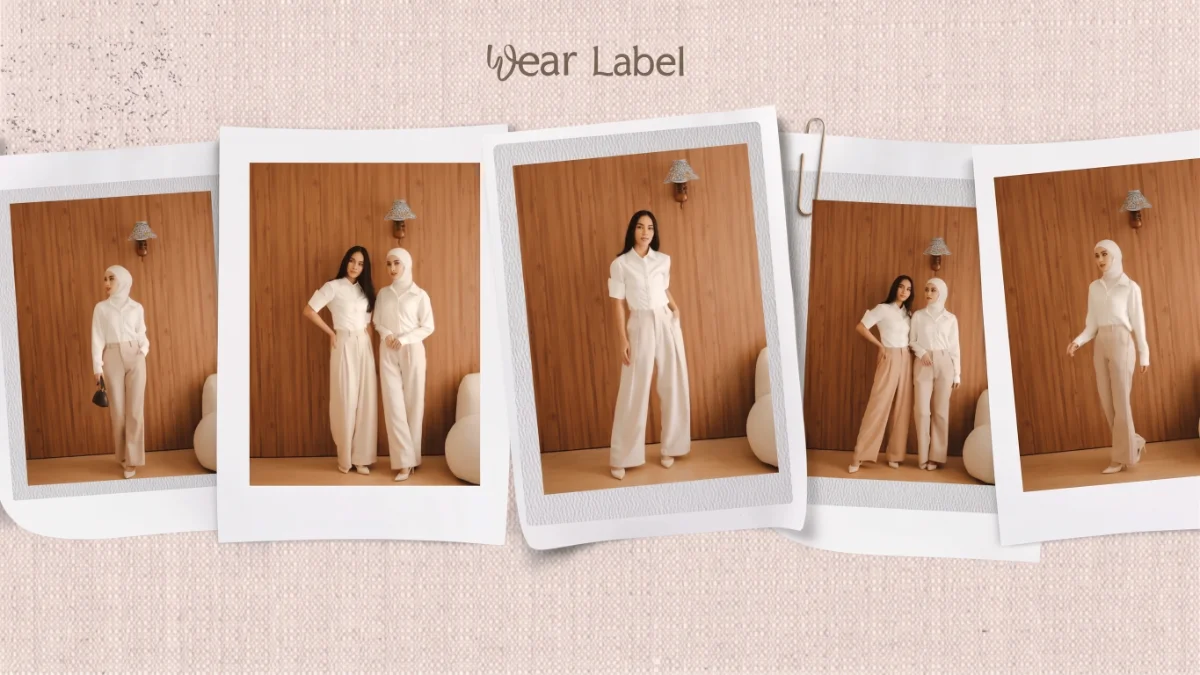
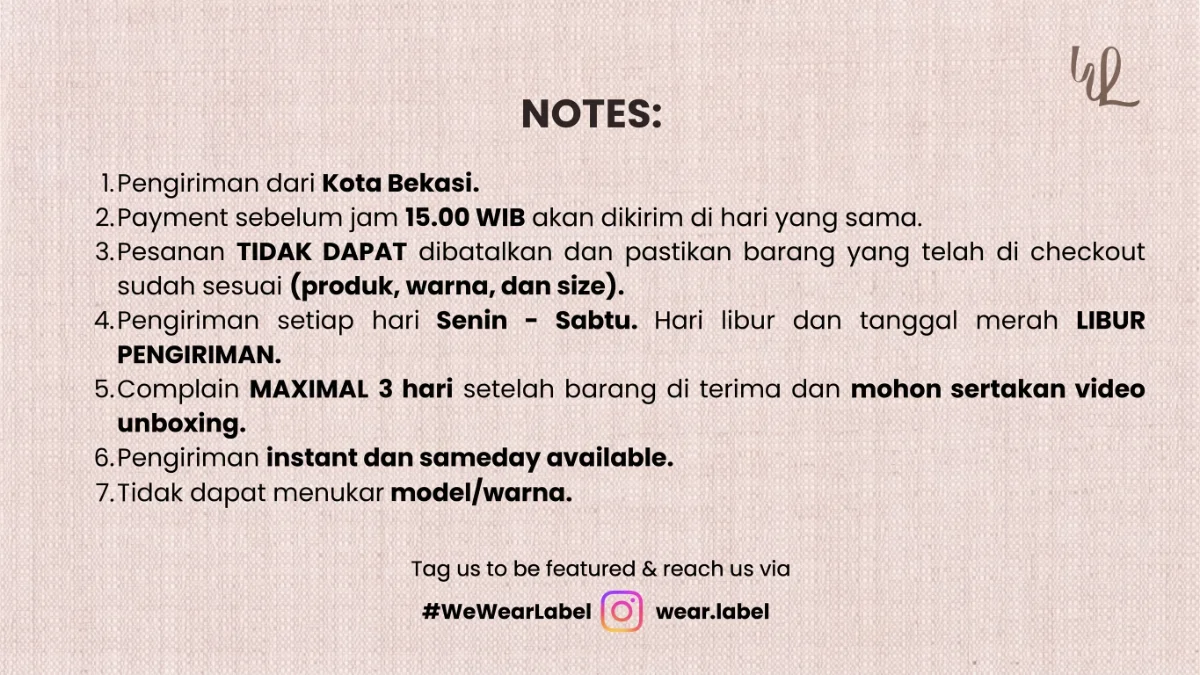
Lead the hero with the photograph, and slide instead of fading
Three changes to the hero, all departures from the design, all asked for.

The slides swap. The design maps its image slots by position, which puts the
studio's order-notes card first and the photograph second; this build leads
with the photograph. The files are renamed rather than the array reordered, so
hero-N.webp still means slide N — which makes public/home/hero-1.webp the
design's sf-hero-2, and hero-2.webp its sf-hero-1. Recorded in CLAUDE.md and
at the top of the component so nobody puts it "back".

Rotation drops from six seconds to three.

The transition is lateral, not a crossfade. Each slide parks one band width
away on the side it will arrive from and only its offset changes; the band
already clips, so nothing else is needed to hide the parked ones. The offset
wraps to the nearer side — inert with two slides, but it is what stops the
last slide travelling backwards across the whole strip once a third is added.
Reduced motion keeps the arrows and dots working and drops the travel.

One consequence worth knowing: pause-on-hover is the only way to stop the
carousel, and at a three-second dwell the heading and its paragraph are longer
than most people read in that time. The dwell is one constant if it needs
raising.

diff --git a/components/home/hero-carousel.tsx b/components/home/hero-carousel.tsx
@@ -14,10 +14,17 @@ import type { Image } from "@/lib/shopify";
  * The hero — the design's 600px band with a cream card over the photograph, and as
  * many slides as `lib/content/site.ts` lists.
  *
+ * Slides travel sideways rather than crossfading: every slide is parked one band
+ * width away on the side it will arrive from, and only the offset changes. The
+ * band already clips, so nothing extra is needed to hide the parked ones.
+ *
  * Rotation rules, in the order they matter:
  *
  *   - It stops on hover and on keyboard focus, so a reader can finish the sentence
- *     they are on and can reach the CTA without it moving.
+ *     they are on and can reach the CTA without it moving. That pause is the only
+ *     way to stop it, and at a three-second dwell it matters more than it did at
+ *     six — the headline and its paragraph are longer than three seconds of
+ *     reading for most people.
  *   - `prefers-reduced-motion` turns rotation off entirely rather than merely
  *     shortening it. An auto-advancing carousel is motion the reader did not ask
  *     for, which is exactly what that setting is about.
@@ -27,15 +34,19 @@ import type { Image } from "@/lib/shopify";
  * One slide renders as a still band with no arrows and no dots — the controls are
  * derived from the slide count, not drawn in.
  *
- * The artwork comes from the design's own image slots, exported to `public/home/`.
- * The design maps them by position — `slotId: 'sf-hero-' + (i + 1)` — so slide 1
- * is `sf-hero-1` and slide 2 is `sf-hero-2`. Its state file also holds an unused
- * `sf-hero` from an earlier single-slide version; it is not one of these two.
+ * The artwork comes from the design's own image slots, exported to `public/home/`
+ * and named for the slide they sit on, not for the slot they came from — **the
+ * design's order is deliberately reversed here**. It maps slots by position
+ * (`slotId: 'sf-hero-' + (i + 1)`), which puts the order-notes card first; the
+ * photograph leads instead. So `hero-1.webp` is the design's `sf-hero-2` and
+ * `hero-2.webp` is its `sf-hero-1`. Its state file also holds an unused `sf-hero`
+ * from an earlier single-slide version; it is neither of these two.
  *
  * A slide with no entry in `HERO_IMAGES` falls back to the labelled placeholder at
  * the band's exact size, so a missing shot never breaks the band.
  */
-const ROTATE_MS = 6000;
+/** Dwell per slide. The design rotates at 6s; three is what this build asked for. */
+const ROTATE_MS = 3000;
 
 /**
  * One entry per slide, in slide order. A null url renders the placeholder.
@@ -45,11 +56,18 @@ const ROTATE_MS = 6000;
  * third, so the crop is what decides how much of a shot survives.
  */
 const HERO_IMAGES: Image[] = [
+  {
+    url: "/home/hero-1.webp",
+    altText:
+      "Polaroid prints laid out on a linen backdrop — models in cream shirts and wide-leg trousers, photographed against a wood-panelled wall.",
+    width: 1200,
+    height: 675,
+  },
   /*
-   * Slide 1 is the studio's own order-notes card, as the design has it. It is an
-   * image OF text, which is why the alt below carries the whole of that text
-   * rather than describing the picture — a screen reader gets nothing from the
-   * card itself, and neither does anyone who zooms.
+   * The studio's own order-notes card. It is an image OF text, which is why the
+   * alt below carries the whole of that text rather than describing the picture —
+   * a screen reader gets nothing from the card itself, and neither does anyone
+   * who zooms.
    *
    * Two things in it are the studio's to keep true, because they go live with the
    * page: it ships from Kota Bekasi, while `lib/content/site.ts` says the studio
@@ -57,16 +75,9 @@ const HERO_IMAGES: Image[] = [
    * catalogue does not otherwise state. Change the card, change the alt with it.
    */
   {
-    url: "/home/hero-1.webp",
-    altText:
-      "Order notes from the studio. 1: Shipping from Kota Bekasi. 2: Payment before 15.00 WIB is dispatched the same day. 3: Orders cannot be cancelled — check the product, colour and size before checkout. 4: Dispatch Monday to Saturday; no dispatch on public holidays. 5: Complaints within 3 days of delivery, with an unboxing video. 6: Instant and same-day delivery available. 7: Models and colours cannot be exchanged.",
-    width: 1200,
-    height: 675,
-  },
-  {
     url: "/home/hero-2.webp",
     altText:
-      "Polaroid prints laid out on a linen backdrop — models in cream shirts and wide-leg trousers, photographed against a wood-panelled wall.",
+      "Order notes from the studio. 1: Shipping from Kota Bekasi. 2: Payment before 15.00 WIB is dispatched the same day. 3: Orders cannot be cancelled — check the product, colour and size before checkout. 4: Dispatch Monday to Saturday; no dispatch on public holidays. 5: Complaints within 3 days of delivery, with an unboxing video. 6: Instant and same-day delivery available. 7: Models and colours cannot be exchanged.",
     width: 1200,
     height: 675,
   },
@@ -119,6 +130,14 @@ export function HeroCarousel({
       {slides.map((slide, slideIndex) => {
         const active = slideIndex === index;
 
+        /* Where this slide sits, in band widths from the active one. Wrapping to
+           the nearer side keeps the last slide from travelling the whole strip
+           backwards on the way round to the first. With two slides it never
+           wraps; with three or more it is what stops the jump. */
+        let offset = slideIndex - index;
+        if (offset > slides.length / 2) offset -= slides.length;
+        if (offset < -slides.length / 2) offset += slides.length;
+
         return (
           <div
             key={slide.heading}
@@ -126,8 +145,12 @@ export function HeroCarousel({
             inert={!active}
             aria-roledescription="slide"
             aria-label={`${slideIndex + 1} of ${slides.length}`}
-            style={{ opacity: active ? 1 : 0, zIndex: active ? 2 : 1 }}
-            className="absolute inset-0 transition-opacity duration-(--duration-lead) ease-entrance"
+            style={{ transform: `translateX(${offset * 100}%)`, zIndex: active ? 2 : 1 }}
+            /* No transition under reduced motion: the arrows and dots still work,
+               the slide just arrives instead of travelling. */
+            className={`absolute inset-0 ${
+              reduceMotion ? "" : "transition-transform duration-(--duration-lead) ease-entrance"
+            }`}
           >
             <Media
               image={HERO_IMAGES[slideIndex] ?? { url: null, altText: "", width: 1440, height: 600 }}

diff --git a/CLAUDE.md b/CLAUDE.md
@@ -222,9 +222,11 @@ truncates text at 256 KiB, and `.image-slots.state.json` is a single 521 KiB lin
 so the hero artwork cannot be fetched that way. `render_preview` serves the project
 over HTTP and relative subresources resolve against it, which is how
 `public/home/hero-{1,2}.webp` were pulled byte-exact. The design maps slots by
-position (`slotId: 'sf-hero-' + (i + 1)`), so slide 1 is `sf-hero-1` and slide 2 is
-`sf-hero-2`; an unused `sf-hero` from an earlier single-slide version is also in that
-file and is not one of them.
+position (`slotId: 'sf-hero-' + (i + 1)`); an unused `sf-hero` from an earlier
+single-slide version is also in that file and is not one of them. **The two hero
+files are named for the slide they sit on, and that order is the reverse of the
+design's** — the design leads with the order-notes card, this build leads with the
+photograph, so `hero-1.webp` is `sf-hero-2` and `hero-2.webp` is `sf-hero-1`.
 
 The published design system that this repo's components sync *to* is a separate
 project, [`096a4d56-a7d8-49ce-9d7a-4fe26ac82b54`](https://claude.ai/design/p/096a4d56-a7d8-49ce-9d7a-4fe26ac82b54).
